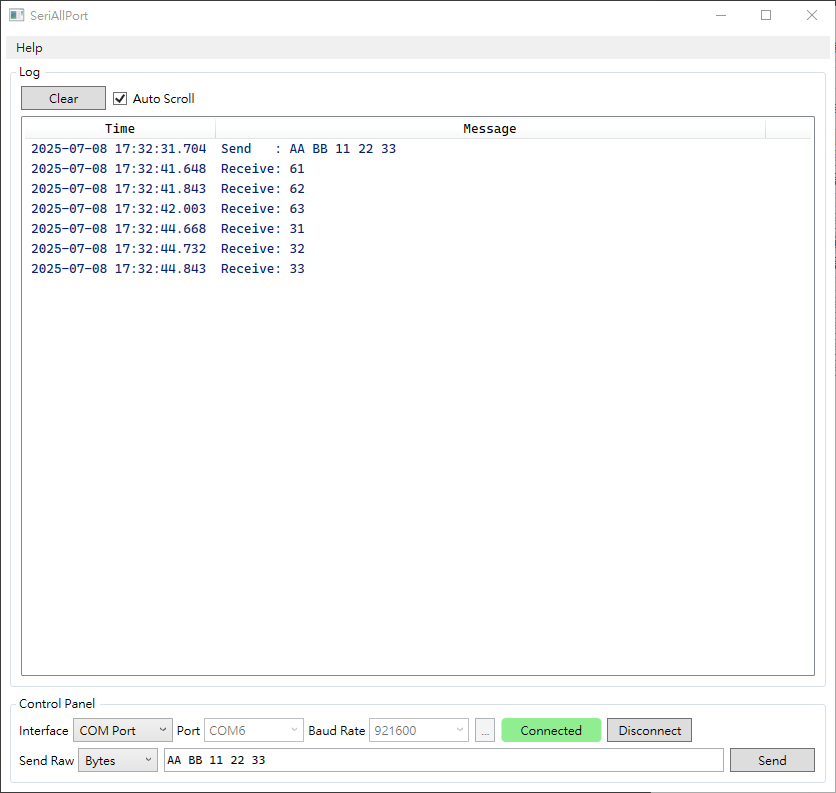
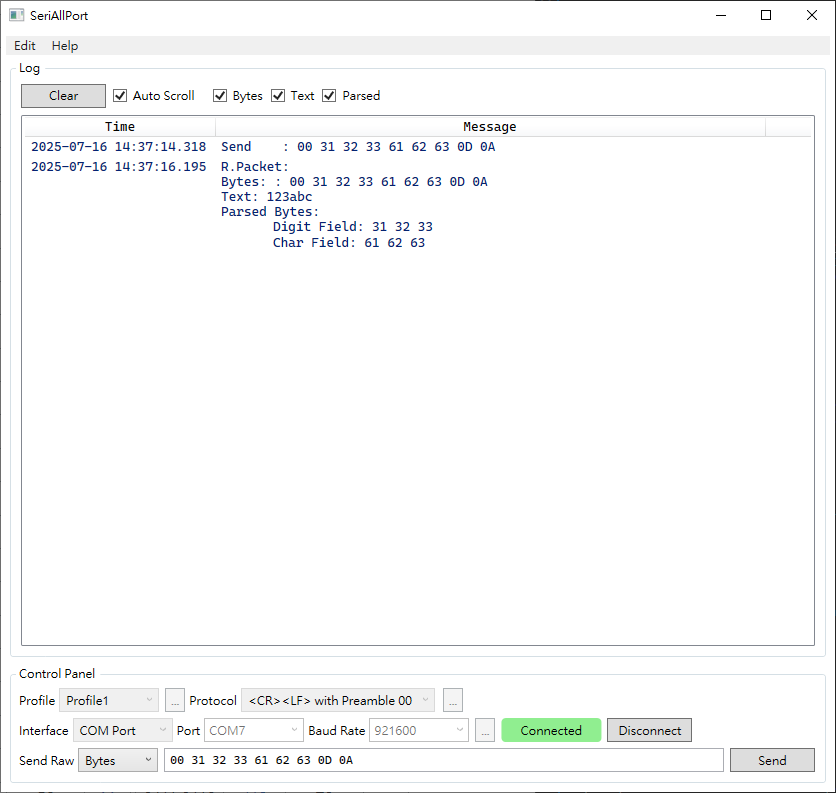
Update md

diff --git a/README.md b/README.md
@@ -1,10 +1,118 @@
 # SeriAllPort
-A simple UI application for inspecting and analyzing data transmission between PC and serial devices (e.g., UART, RS-422, RS-232).
-![alt text](Image/App.png)
-# Features (In Progress)
-1. Send Raw Data
-    * Send bytes
-    * Send text (UTF-8 encoded)
-2. Display Received Data
-    * Show timestamps
-    * Display as raw bytes
+
+SeriAllPort is a simple UI-based application for inspecting and analyzing data transmissions between a PC and serial devices (e.g., UART, RS-232/422/485).
+
+---
+
+## Platform
+
+- **Operating Systems:** Windows 10, Windows 11  
+- **.NET:** .NET 8.0 (LTS)  
+- **UI Framework:** WPF
+
+![Application Screenshot](Image/App.png)
+
+---
+
+# Features _(Work in Progress)_
+
+## Send Raw Data
+
+- Send raw bytes represented in hexadecimal format.  
+  _Example:_ `AA BB 11 22`
+- Send plain text encoded in UTF-8.  
+  _Example:_ `text`
+
+---
+
+## Protocol System
+![Application Screenshot](Image/ProtocolEditor.png)
+When data is received, it may be displayed across multiple lines if the application does not understand the device’s protocol. For example, a stream like `31 32 0D 0A` might appear as:
+
+```
+Received: 31 32 0D
+Received: 0A
+```
+
+The **Protocol System** allows you to define how SeriAllPort parses the incoming data stream into **packets**, making the data easier to interpret.
+
+### Packet Modes
+
+**1. Timeout**
+
+Use a timeout to separate packets when the connected device does not use any kind of explicit packet boundaries. If there is no incoming data for the specified time, SeriAllPort treats the received bytes as one packet.
+
+_Example:_ Idle Timeout: 50 ms  
+```
+Data stream: 31 32 0D 0A [idle for 100 ms] 33 34 0D 0A
+
+Received: 31 32 0D 0A // first packet
+// idle for 100 ms
+Received: 33 34 0D 0A // second packet
+```
+
+---
+
+**2. End of Packet Symbol**
+
+Specify a termination character or sequence (e.g., CR, LF, CRLF) to mark the end of a packet. For example, if the **End of Packet Symbol** is `0D 0A`:
+
+```
+Data stream: 31 32 0D 0A 33 34 0D 0A
+
+Received: 31 32 0D 0A // first packet
+Received: 33 34 0D 0A // second packet
+```
+
+---
+
+**3. Length Field** _(Planned)_
+
+Support for fixed-length fields that determine packet size automatically.
+
+---
+
+### Field Types
+
+- **Preamble**  
+  Optional. If defined, SeriAllPort scans for the preamble as the start of a packet. Bytes between the end of the last packet and the next valid preamble are marked as errors (`R.Error`).  
+  - Must be **Fixed Data** field.
+  - Must be the first field.
+
+- **Fields**  
+  User-defined fields within the packet.
+
+- **End of Packet**  
+  Defines a termination symbol for packets.  
+  - Required if **Packet Mode** is **End of Packet Symbol**.
+  - Cannot be used with **Timeout** mode.
+
+---
+
+### Field Length Modes
+
+- **Fixed Length**  
+  The length is defined and SeriAllPort extracts data accordingly.
+
+- **Fixed Data**  
+  Both length and content must match the specified value.  
+  _Example_: **Preamble** and **End of Packet** are **Fixed Data** fields.
+
+- **Variable Length**  
+  The length is determined dynamically by other fields in the packet.  
+  - Consecutive variable-length fields are not supported.
+
+---
+
+## Profile System
+
+SeriAllPort allows you to save your configuration as a **Profile**, making it easy to switch between different device setups.
+
+A profile can include:
+
+- Used Protocol
+- COM Port settings
+- Preferred data display format
+- Default send mode: raw bytes or plain text
+
+---
